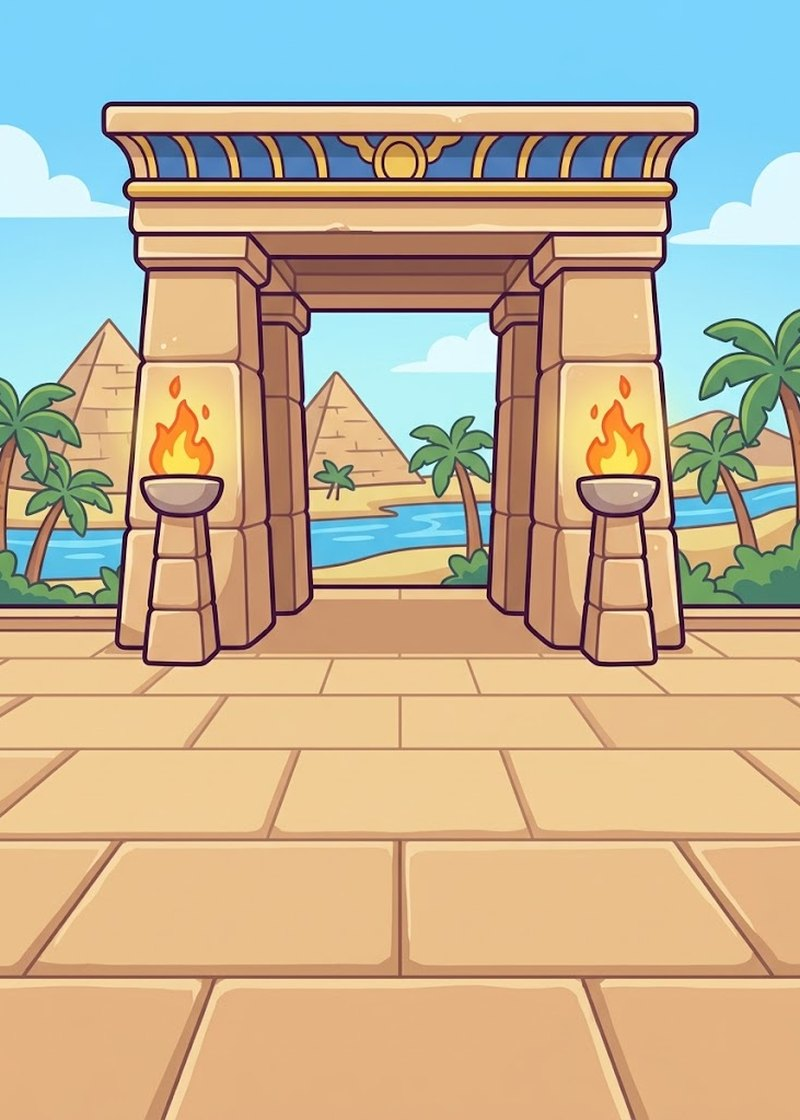
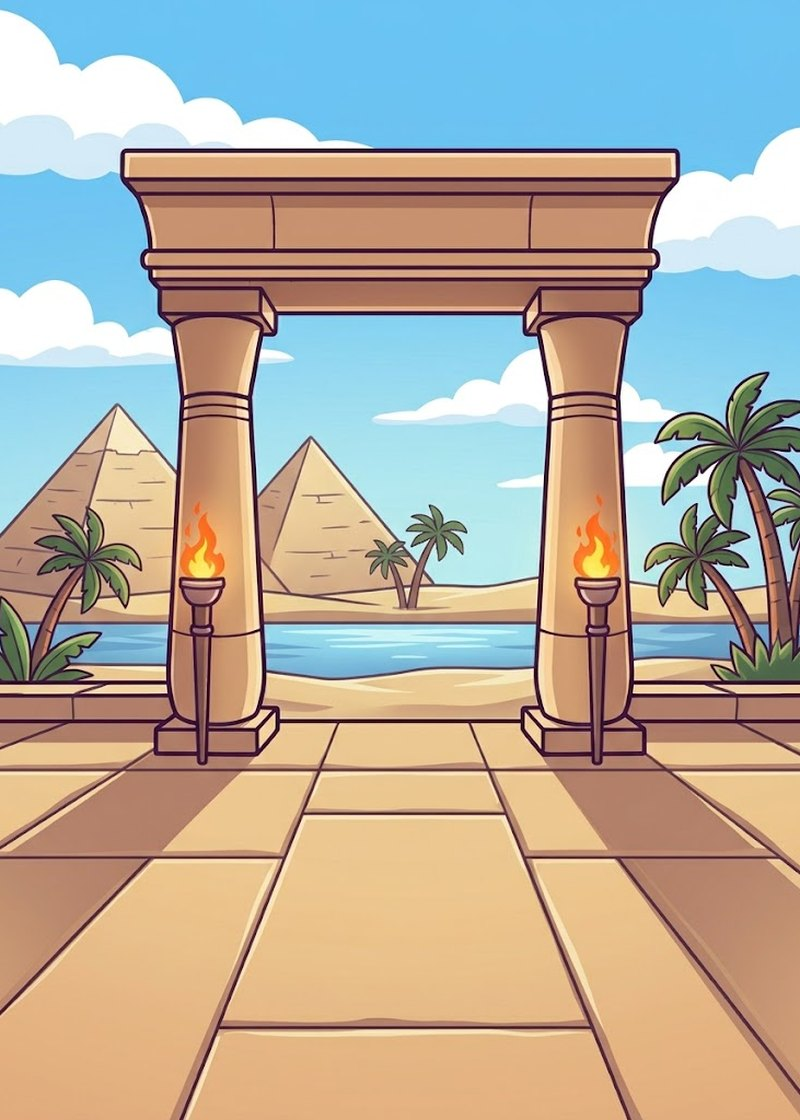
Cat Evolution: caminata de 6 cuadros y nuevo fondo de Egipto de día

diff --git a/cat-evolution/index.html b/cat-evolution/index.html
@@ -329,6 +329,7 @@ img.catimg{display:block;width:100%;height:auto}
 .walker .front img.catimg{position:absolute;left:0;bottom:0}
 .walker.walking .side img.catimg{animation:stepimg .32s ease-in-out infinite alternate;transform-origin:50% 100%}
 .walker.lifted .hang img.catimg{transform-origin:50% 3%;animation:sway 1.1s ease-in-out infinite alternate}
+.walker.walking .side img.catimg.frames{animation:none}
 @keyframes stepimg{from{transform:translateY(0) rotate(-2.5deg)}to{transform:translateY(-4%) rotate(2.5deg)}}
 @media (prefers-reduced-motion:reduce){.walker.walking .side img.catimg,.walker.lifted .hang img.catimg{animation:none}}
 /* Resplandor del Abuelo cuando no hay imagen con ojos brillantes */
@@ -391,8 +392,7 @@ img.catimg{display:block;width:100%;height:auto}
 @keyframes up{from{transform:translateY(60px)}to{transform:none}}
 @media (prefers-reduced-motion:reduce){.waking,.flash,.pop,.slot.ready .sarc,.sheet-card,.purse.bump{animation:none}}
 </style>
-</head>
-<body>
+
 <div class="app">
   <header class="topbar">
     <div class="logo">Cat <em>Evolution</em></div>
@@ -625,6 +625,8 @@ img.catimg{display:block;width:100%;height:auto}
 
   // Gato de perfil caminando (mira a la derecha); las patas lgA/lgB se animan con CSS
   function catSideSVG(g) {
+    const fr = hasWalkArt() && catArtURL(g, 'caminar1', false);
+    if (fr) return `<img class="cat catimg frames" src="${fr}" alt="">`;
     const art = catArtURL(g, 'lado', false); if (art) return `<img class="cat catimg" src="${art}" alt="">`;
     const id = 's' + (++uid), F = FUR[g.fur] || FUR.naranja;
     const ink = '#2a1f35', white = '#fbf6ee', gold = '#f4c24f', starC = '#fff6c4';
@@ -1129,7 +1131,12 @@ img.catimg{display:block;width:100%;height:auto}
     agazapado: { art: 'gato_agazapado',    eyes: [[.13, .5], [.33, .5]], eyeR: .05 },
     dormido:   { art: 'gato_dormido' },
     colgado:   { art: 'gato_colgado' },
+    // cuadros de la caminata (todos del mismo tamaño, alineados por la nariz)
+    caminar1: { art: 'gato_caminar_1' }, caminar2: { art: 'gato_caminar_2' }, caminar3: { art: 'gato_caminar_3' },
+    caminar4: { art: 'gato_caminar_4' }, caminar5: { art: 'gato_caminar_5' }, caminar6: { art: 'gato_caminar_6' },
   };
+  const WALK_FRAMES = 6, WALK_MS = 105;
+  const hasWalkArt = () => !!artURL('gato_caminar_' + WALK_FRAMES);
   const IDLE_POSES = ['sentado', 'acostado', 'dormido', 'estira'];
   const CAT_CACHE = new Map();
   const hexRGB = h => [parseInt(h.slice(1, 3), 16), parseInt(h.slice(3, 5), 16), parseInt(h.slice(5, 7), 16)];
@@ -1398,7 +1405,7 @@ img.catimg{display:block;width:100%;height:auto}
       b.innerHTML = `<div class="flip"><div class="side">${catSideSVG(c.genes)}</div><div class="front">${catSVG(c.genes)}</div></div><div class="hang">${catHangSVG(c.genes)}</div><span class="emote" aria-hidden="true"></span>`;
       b.addEventListener('pointerdown', e => { if (w.walking) setIdle(w, performance.now()); walkerDown(e, w, c); });
       b.addEventListener('click', e => { if (e.detail === 0) openCat(c.id); }); // con teclado, Enter abre la ficha
-      w.el = b; w.flip = b.firstChild; w.genes = c.genes;
+      w.el = b; w.flip = b.firstChild; w.side = null; w.genes = c.genes;
       world.appendChild(b);
     });
     placeWalkers();
@@ -1635,7 +1642,15 @@ img.catimg{display:block;width:100%;height:auto}
           const dx = (w.tx - w.x) * W, dy = (w.ty - w.y) * H, d = Math.hypot(dx, dy);
           const stepPx = W * .07 * depth(w.y) * dt;
           if (d <= stepPx) { w.x = w.tx; w.y = w.ty; setIdle(w, t); }
-          else { w.x += dx / d * stepPx / W; w.y += dy / d * stepPx / H; if (Math.abs(dx) > 2) w.face = dx < 0 ? -1 : 1; }
+          else {
+            w.x += dx / d * stepPx / W; w.y += dy / d * stepPx / H; if (Math.abs(dx) > 2) w.face = dx < 0 ? -1 : 1;
+            if (w.genes && t - (w.frameT || 0) > WALK_MS && hasWalkArt()) {
+              w.frameT = t; w.frame = ((w.frame || 0) + 1) % WALK_FRAMES;
+              const im = w.side || (w.side = w.el.querySelector('.side img.frames'));
+              const u = im && catArtURL(w.genes, 'caminar' + (w.frame + 1), false);
+              if (u) im.src = u;
+            }
+          }
         } else if (t > w.until) setWalk(w);
       }
       placeWalkers();

diff --git a/cat-evolution/herramientas/procesar_arte.py b/cat-evolution/herramientas/procesar_arte.py
@@ -32,9 +32,18 @@ HOJAS = {
     'hoja_piramide': ['bloque_caliza', 'bloque_granito', 'bloque_lapislazuli', 'bloque_turquesa', 'bloque_oro', 'bloque_basalto', 'icono_piedra'],
     'hoja_egipto': ['esfinge', 'esfinge_piedra', 'sarcofago', 'altar', 'obelisco', 'estandarte', 'estanque', 'icono_ofrenda'],
     'hoja_casa_nieve': ['arbol_gato', 'canasta', 'plato', 'muneco_nieve', 'iglu', 'fogata'],
+    # hojas de animación: cuadros en orden
+    'hoja_caminar': ['gato_caminar_1', 'gato_caminar_2', 'gato_caminar_3', 'gato_caminar_4', 'gato_caminar_5', 'gato_caminar_6'],
+    'hoja_acicalar': ['gato_acicalar_1', 'gato_acicalar_2', 'gato_acicalar_3', 'gato_acicalar_4'],
+    'hoja_saltar': ['gato_saltar_1', 'gato_saltar_2', 'gato_saltar_3', 'gato_saltar_4'],
+    'hoja_comer': ['gato_comer_1', 'gato_comer_2', 'gato_comer_3'],
+    'hoja_jugar': ['gato_jugar_1', 'gato_jugar_2', 'gato_jugar_3', 'gato_jugar_4'],
 }
 # en la hoja caminan hacia la izquierda; el juego los usa mirando a la derecha
-ESPEJO = {'gato_lado_1', 'gato_lado_2'}
+ESPEJO = {'gato_lado_1', 'gato_lado_2', 'gato_caminar_2'}
+# cuadros de animación que deben quedar del mismo tamaño, alineados abajo y a la derecha (la nariz),
+# para que al pasarlos rápido la cabeza no tiemble
+ANIMACIONES = {'gato_caminar_': 6}
 
 # nombre: (tipo, tamaño máximo en px)
 #   recorte = quitar fondo blanco y recortar al objeto
@@ -66,6 +75,12 @@ ASSETS = {
     'gato_frente': ('recorte', 512), 'gato_lado_1': ('recorte', 512), 'gato_lado_2': ('recorte', 512),
     'gato_colgado': ('recorte', 512), 'gato_estira': ('recorte', 512), 'gato_acostado': ('recorte', 512),
     'gato_sentado_lado': ('recorte', 512), 'gato_agazapado': ('recorte', 512), 'gato_dormido': ('recorte', 512),
+    # cuadros de animación
+    **{f'gato_caminar_{i}': ('recorte', 512) for i in range(1, 7)},
+    **{f'gato_acicalar_{i}': ('recorte', 512) for i in range(1, 5)},
+    **{f'gato_saltar_{i}': ('recorte', 512) for i in range(1, 5)},
+    **{f'gato_comer_{i}': ('recorte', 512) for i in range(1, 4)},
+    **{f'gato_jugar_{i}': ('recorte', 512) for i in range(1, 5)},
 }
 CLAVE = (255, 0, 255)
 
@@ -174,6 +189,14 @@ def main():
             continue
         for nombre, pieza in zip(nombres, sueltas):
             piezas[nombre] = pieza.transpose(Image.FLIP_LEFT_RIGHT) if nombre in ESPEJO else pieza
+    for prefijo, n in ANIMACIONES.items():
+        cuadros = [piezas.get(f'{prefijo}{i}') for i in range(1, n + 1)]
+        if all(cuadros):
+            ancho, alto = max(c.width for c in cuadros), max(c.height for c in cuadros)
+            for i, c in enumerate(cuadros, start=1):
+                lienzo = Image.new('RGBA', (ancho, alto), (0, 0, 0, 0))
+                lienzo.paste(c, (ancho - c.width, alto - c.height), c)
+                piezas[f'{prefijo}{i}'] = lienzo
     for nombre, (tipo, tam) in ASSETS.items():
         if nombre in piezas and tipo in ('recorte', 'cuadro', 'par'):
             pieza = piezas[nombre]
